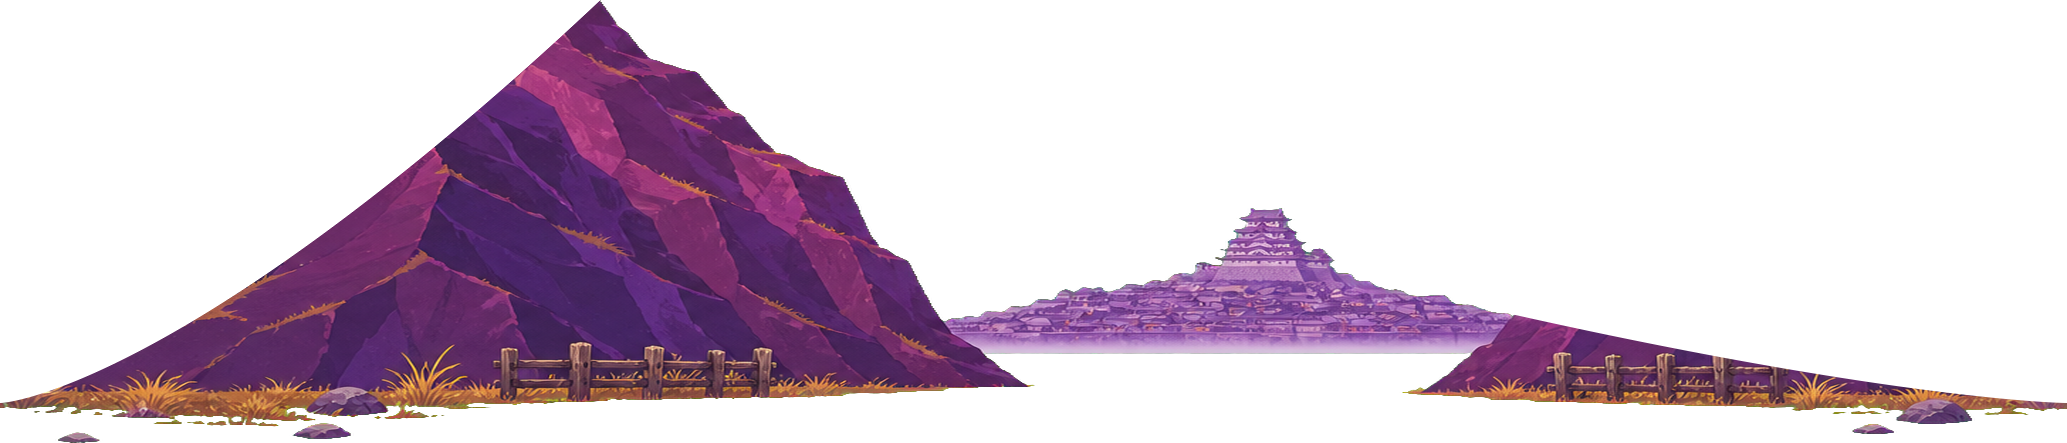
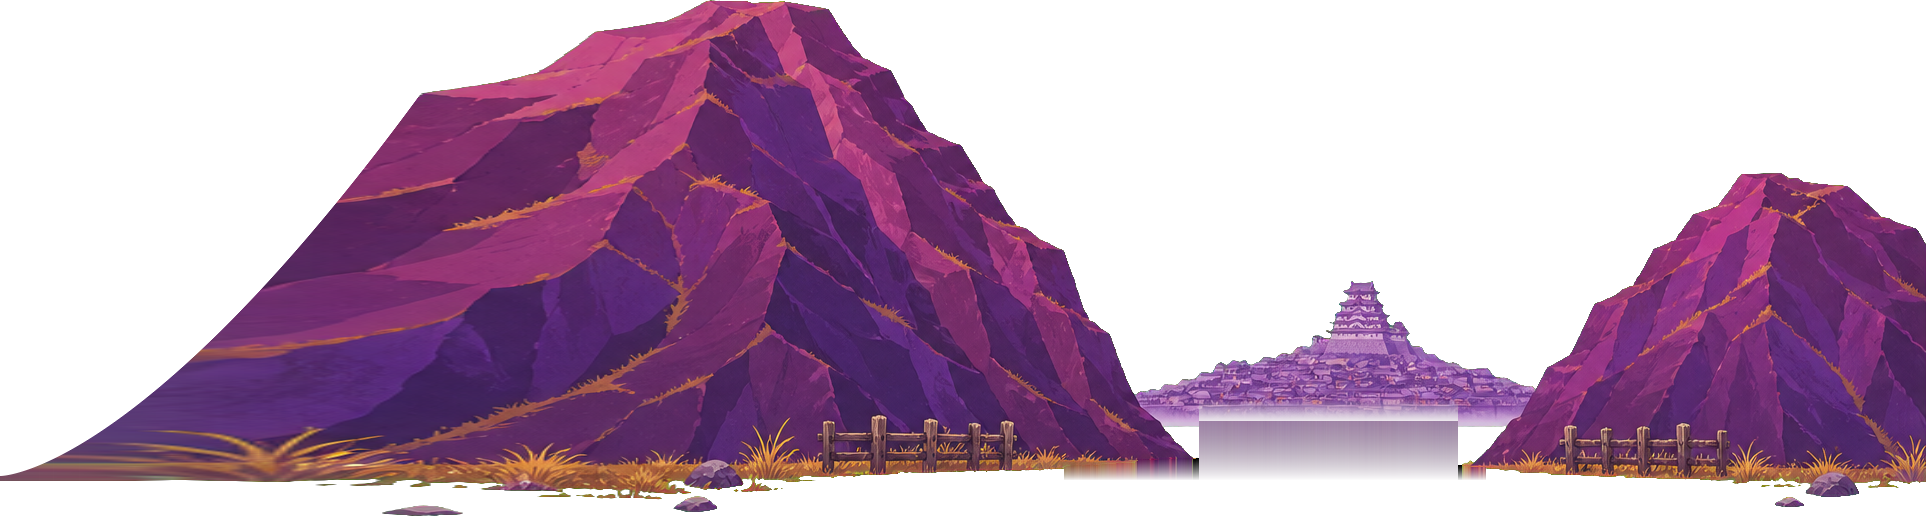
Stage3ラストの絵を作り直す(右の山を削っていた・横に潰していた・城の裾が皿だった)
「雑すぎない？」はそのとおりで、原因は生成物ではなく【私の後処理】だった。
実測して三つとも私が壊していた。

■ 1. 右の山を丸ごと削っていた
裾を作る taper を左右とも幅560で当てていた。右の山の頂は右端から155pxの
位置にあるので、その頂ごと削り取っていた。
  実測(修正前): x=1400から右へ 高さ116→106→93→…→4 と単調減少＝山が無い
右端はカメラ停止時に画面の右端と一致する(exitX+exitW=1280、接近中はさらに外)。
つまり【右の裁ち切りは元から見えない】ので taper は不要だった。右は0にした。
  実測(修正後): x=1500で103 → x=1925で237。山が戻った。

■ 2. 全体を横に1.42倍伸ばして面が潰れていた
左の斜面(63度)を寝かせるために全体を伸ばしていたので、面が横へ流れて
くしゃくしゃの紙のようになっていた。
伸ばすのは【左の裾だけ】にして、しかも継ぎ目が出ないよう非線形にした:
  f(X) = 250*(X/720)^2.88   X=720で傾き1(＝無変形部と滑らかに繋がる)
左端ほど強く伸び、山の本体は無変形のまま。そのうえで左だけ幅420で裾を作る。
  実測: 左斜面 34.1度 / 左端 x=0で高さ4 → x=40で16 → x=120で63 と地面へ消える
伸ばした裾は面が流れるので、外側360pxだけ霞へ寄せて遠景として読ませる。

■ 3. 城下町の裾が明るい横棒だった(皿・水面に見える元)
生成画像が焼き込んでいた靄の帯を溶かし、丘の裾を地平まで落とした。
まっすぐ下へ伸ばすと四角い台になったので、αを落としながら地平で消す。

さらに、その下に敷いていた遠い平地の色が【夕焼けの空色そのまま】だったので、
霞んだ紫の丘の下に真っ赤な帯が出ていた。遠い平地は空ではなく地面なので
霞んだ灰紫にした(near と #6a5a78 の中間)。
  実測 x=860 の縦: 修正前 (89,28,16) の赤 → 修正後 (120,104,118)→(87,63,67)
  で丘から地面へ連続。平地 x=1150,y=470 も (68,38,73)。

配置も合わせ直した(EXIT_TOP_MARGIN 200→146 / 地面線 480/516)。
停止時は 左の山 -109..598(頂403) / 城下町 612..828 / 右の山 937..1280 で画面が埋まる。

?v= は screen-safe-20260815b へ一括バンプ。

diff --git a/js/game.js b/js/game.js
@@ -2,17 +2,17 @@
 // Unification of the Nation - ゲームコア
 // ============================================
 
-import { CANVAS_WIDTH, SCREEN_WIDTH, CANVAS_HEIGHT, GAME_STATE, STAGES, DIFFICULTY, OBSTACLE_TYPES, PLAYER, STAGE_DEFAULT_WEAPON, LANE_OFFSET, STAGE6_CORNER, UI_SIZE_ANCHOR, getDeviceProfile, setUiScaleFromFitScale, setCornerInsets, setNotchInsetX, setVirtualPadVisible, setBgmButtonVisible, isTouchOverlayMode } from './constants.js?v=screen-safe-20260815a';
-import { BOSS_STAGING } from './bossStaging.js?v=screen-safe-20260815a';
-import { isUpdateAvailable, applyUpdate, checkForUpdate } from './appUpdate.js?v=screen-safe-20260815a';
-import { getStageSelectLayout, renderStageSelect, STAGE_SELECT_ORDER } from './stageSelect.js?v=screen-safe-20260815a';
-import { clearFilteredImageCache, getFilteredImageCacheStats } from './filteredImage.js?v=screen-safe-20260815a';
-import { BonusStage, BONUS_STAGE_IMAGES } from './bonusStage.js?v=screen-safe-20260815a';
-import { TrainingStage, TRAINING_STAGE_IMAGES } from './trainingStage.js?v=screen-safe-20260815a';
-import { sideBestKey, normalizeSideBests, getSideBest } from './sideStageCommon.js?v=screen-safe-20260815a';
-import { preloadImages, areImagesSettled } from './imageCache.js?v=screen-safe-20260815a';
-import { readPhysicalScreen, computeScreenWidth } from './screenGeometry.js?v=screen-safe-20260815a';
-import { input } from './input.js?v=screen-safe-20260815a';
+import { CANVAS_WIDTH, SCREEN_WIDTH, CANVAS_HEIGHT, GAME_STATE, STAGES, DIFFICULTY, OBSTACLE_TYPES, PLAYER, STAGE_DEFAULT_WEAPON, LANE_OFFSET, STAGE6_CORNER, UI_SIZE_ANCHOR, getDeviceProfile, setUiScaleFromFitScale, setCornerInsets, setNotchInsetX, setVirtualPadVisible, setBgmButtonVisible, isTouchOverlayMode } from './constants.js?v=screen-safe-20260815b';
+import { BOSS_STAGING } from './bossStaging.js?v=screen-safe-20260815b';
+import { isUpdateAvailable, applyUpdate, checkForUpdate } from './appUpdate.js?v=screen-safe-20260815b';
+import { getStageSelectLayout, renderStageSelect, STAGE_SELECT_ORDER } from './stageSelect.js?v=screen-safe-20260815b';
+import { clearFilteredImageCache, getFilteredImageCacheStats } from './filteredImage.js?v=screen-safe-20260815b';
+import { BonusStage, BONUS_STAGE_IMAGES } from './bonusStage.js?v=screen-safe-20260815b';
+import { TrainingStage, TRAINING_STAGE_IMAGES } from './trainingStage.js?v=screen-safe-20260815b';
+import { sideBestKey, normalizeSideBests, getSideBest } from './sideStageCommon.js?v=screen-safe-20260815b';
+import { preloadImages, areImagesSettled } from './imageCache.js?v=screen-safe-20260815b';
+import { readPhysicalScreen, computeScreenWidth } from './screenGeometry.js?v=screen-safe-20260815b';
+import { input } from './input.js?v=screen-safe-20260815b';
 
 // 最上層の会敵歩行の速度倍率。決戦前の一歩を重くするため通常より遅く歩かせる。
 const STAGE6_APPROACH_SPEED_SCALE = 0.46;   // 会敵歩行の速さ(通常歩行に対する比)
@@ -50,18 +50,18 @@ const STAGE6_DUEL_LEAD_OUT_MS = 1400;   // 開戦後に通常追従へ戻す
 // ボスが足を止めてから名乗りまでの実測483msで残差1.5pxまで収束する。
 const STAGE6_DUEL_LEAD_OMEGA = 12;
 const STAGE6_DUEL_LEAD_MAX_PX = 460;    // 先行量の上限(異常な間合いでカメラが飛ばない保険)
-import { Player } from './player.js?v=screen-safe-20260815a';
-import { createSubWeapon } from './weapon.js?v=screen-safe-20260815a';
-import { Stage, preloadStageImages, prefetchStageImages, areStageImagesSettled } from './stage.js?v=screen-safe-20260815a';
-import { GRAPPLE_PHASE } from './stage6Grapple.js?v=screen-safe-20260815a';
-import { UI, renderTitleScreen, renderTitleDebugWindow, renderGameOverScreen, renderStatusScreen, renderStageClearAnnouncement, renderLevelUpChoiceScreen, getLevelUpChoiceLayout, renderSideResultScreen, getSideResultLayout, renderPauseScreen, getPauseReturnButton, getPauseMapButton, renderGameClearScreen, renderIntro, renderEnding, getTitleScreenLayout, getStatusScreenLayout, getTitleDebugLayout, getUpdateModalLayout, renderBossNameBanner, getBossNameBannerBox } from './ui.js?v=screen-safe-20260815a';
-import { CollisionManager, checkPlayerEnemyCollision, checkEnemyAttackHit } from './collision.js?v=screen-safe-20260815a';
-import { saveManager } from './save.js?v=screen-safe-20260815a';
-import { shop } from './shop.js?v=screen-safe-20260815a';
-import { audio } from './audio.js?v=screen-safe-20260815a';
-import { ShadowRenderer } from './shadow.js?v=screen-safe-20260815a';
-import { applyShogunCombat } from './shogunCombatHelper.js?v=screen-safe-20260815a';
-import { getRockVisualPalette } from './obstacle.js?v=screen-safe-20260815a';
+import { Player } from './player.js?v=screen-safe-20260815b';
+import { createSubWeapon } from './weapon.js?v=screen-safe-20260815b';
+import { Stage, preloadStageImages, prefetchStageImages, areStageImagesSettled } from './stage.js?v=screen-safe-20260815b';
+import { GRAPPLE_PHASE } from './stage6Grapple.js?v=screen-safe-20260815b';
+import { UI, renderTitleScreen, renderTitleDebugWindow, renderGameOverScreen, renderStatusScreen, renderStageClearAnnouncement, renderLevelUpChoiceScreen, getLevelUpChoiceLayout, renderSideResultScreen, getSideResultLayout, renderPauseScreen, getPauseReturnButton, getPauseMapButton, renderGameClearScreen, renderIntro, renderEnding, getTitleScreenLayout, getStatusScreenLayout, getTitleDebugLayout, getUpdateModalLayout, renderBossNameBanner, getBossNameBannerBox } from './ui.js?v=screen-safe-20260815b';
+import { CollisionManager, checkPlayerEnemyCollision, checkEnemyAttackHit } from './collision.js?v=screen-safe-20260815b';
+import { saveManager } from './save.js?v=screen-safe-20260815b';
+import { shop } from './shop.js?v=screen-safe-20260815b';
+import { audio } from './audio.js?v=screen-safe-20260815b';
+import { ShadowRenderer } from './shadow.js?v=screen-safe-20260815b';
+import { applyShogunCombat } from './shogunCombatHelper.js?v=screen-safe-20260815b';
+import { getRockVisualPalette } from './obstacle.js?v=screen-safe-20260815b';
 
 // 端末ディスプレイの角丸推定（updateCornerInsets が使う）。
 // R ≒ 画面短辺 × 11%。退避量はコーナー円の幾何最小 0.293R に円形ボタンぶんの
@@ -1183,7 +1183,7 @@ class Game {
         shop.reset();
 
         // 武器作成関数をインポート
-        import('./weapon.js?v=screen-safe-20260815a').then(module => {
+        import('./weapon.js?v=screen-safe-20260815b').then(module => {
             // 基本ステータス復元
             this.currentStageNumber = saveData.progress.currentStage;
             // セレクト画面の解放判定。旧セーブ(フィールド無し)は「保存された次のステージ

diff --git a/js/stage.js b/js/stage.js
@@ -2,23 +2,23 @@
 // Unification of the Nation - ステージ管理
 // ============================================
 
-import { CANVAS_WIDTH, CANVAS_HEIGHT, SCREEN_WIDTH, STAGES, ENEMY_TYPES, OBSTACLE_TYPES, LANE_OFFSET, STAGE5_FLOOR, STAGE6_CORNER } from './constants.js?v=screen-safe-20260815a';
-import { BOSS_STAGING } from './bossStaging.js?v=screen-safe-20260815a';
-import { createEnemy } from './enemy.js?v=screen-safe-20260815a';
-import { createBoss } from './boss.js?v=screen-safe-20260815a';
-import { createObstacle } from './obstacle.js?v=screen-safe-20260815a';
-import { audio } from './audio.js?v=screen-safe-20260815a';
-import { generateStairsCanvas } from './stairRenderer.js?v=screen-safe-20260815a';
+import { CANVAS_WIDTH, CANVAS_HEIGHT, SCREEN_WIDTH, STAGES, ENEMY_TYPES, OBSTACLE_TYPES, LANE_OFFSET, STAGE5_FLOOR, STAGE6_CORNER } from './constants.js?v=screen-safe-20260815b';
+import { BOSS_STAGING } from './bossStaging.js?v=screen-safe-20260815b';
+import { createEnemy } from './enemy.js?v=screen-safe-20260815b';
+import { createBoss } from './boss.js?v=screen-safe-20260815b';
+import { createObstacle } from './obstacle.js?v=screen-safe-20260815b';
+import { audio } from './audio.js?v=screen-safe-20260815b';
+import { generateStairsCanvas } from './stairRenderer.js?v=screen-safe-20260815b';
 import {
     GRAPPLE_PHASE, createGrappleState, isGrappleActive, grappleProgress,
     startGrapple, updateGrapple, updateGrappleVisual, grapplePullEase, grapplePullPosition,
     renderGrappleBehind, renderGrappleFront
-} from './stage6Grapple.js?v=screen-safe-20260815a';
-import { getImage, preloadImages, prefetchImages, areImagesSettled, shouldSkipPrefetch } from './imageCache.js?v=screen-safe-20260815a';
+} from './stage6Grapple.js?v=screen-safe-20260815b';
+import { getImage, preloadImages, prefetchImages, areImagesSettled, shouldSkipPrefetch } from './imageCache.js?v=screen-safe-20260815b';
 // 画像描画は drawImageGraded を通す。ctx.filter が none のときは素通しで、
 // 掛かっているときだけフィルタ済みキャッシュを貼る(毎フレームの色調フィルタが
 // 低スペック端末での処理落ちの主因だった。詳細は filteredImage.js)。
-import { drawImageGraded } from './filteredImage.js?v=screen-safe-20260815a';
+import { drawImageGraded } from './filteredImage.js?v=screen-safe-20260815b';
 
 /**
  * 背景の添景を床帯のどこに植えるか（groundY からの奥行き）。
@@ -76,7 +76,7 @@ const STAGE_IMAGE_SOURCES = {
     },
     3: {
         fields: {
-            stage3ExitImage: 'images/stage3_mountain_exit.png?v=20260814_exit5',
+            stage3ExitImage: 'images/stage3_mountain_exit.png?v=20260815_exit6',
             stage3GroundImage: 'images/stage3_ground_mountain_tile.png',
             // 遠景の山並み。1枚をミラー連結してあるので横に繰り返すと稜線が繋がる
             // (右端は自身の鏡像と接し、巻き戻り点は左端同士)。
@@ -4782,8 +4782,8 @@ export class Stage {
         // 絵の上辺が y=EXIT_TOP_MARGIN_PX に来る大きさを幅へ逆算する。
         // 遠景の帯(y270あたりが最高峰)より一段だけ高い位置に頂が来る値にしてある。
         // ここを詰めすぎると「同じ山が一段手前に来た」ではなく壁になる。
-        const EXIT_TOP_MARGIN_PX = 200;
-        const EXIT_HORIZON_RATIO = 406 / 443; // 実測: 山の裾が地面に着く行 / 画像の高さ
+        const EXIT_TOP_MARGIN_PX = 146;
+        const EXIT_HORIZON_RATIO = 480 / 516; // 実測: 山の裾が地面に着く行 / 画像の高さ
         const footY = this.groundY + BG_PROP_FOOT_DEPTH;
         const exitH = Math.round((footY - EXIT_TOP_MARGIN_PX) / EXIT_HORIZON_RATIO);
         const exitW = Math.round(exitH * (exitImg.naturalWidth / exitImg.naturalHeight));
@@ -4972,12 +4972,17 @@ export class Stage {
             // 尽きた先が素の空だけになると地平まで抜けて空虚になるので、
             // 先に【遠い平地の霞】を低く敷いておく。山より下にしか出ないので、
             // 山が残っている範囲では山に隠れて見えない。
-            const plainTone = this.interpolateColor(currentPalette.mid, horizonSky, 0.74);
-            const plainTop = this.groundY - 62;
+            // 地平のきわは【ほぼ不透明】にする。薄いままだと、城下町の丘の裾と
+            // 地面の間に空の色が細く残って「丘が浮いた赤い帯」になる。
+            // 色は空へ寄せない。夕焼けの空色をそのまま敷くと真っ赤な帯になり、
+            // 霞んだ紫の丘と繋がらない。遠い平地は【霞んだ灰紫】。
+            const plainTone = this.interpolateColor(currentPalette.near, '#6a5a78', 0.55);
+            const plainTop = this.groundY - 88;
             const plain = ctx.createLinearGradient(0, plainTop, 0, this.groundY);
             plain.addColorStop(0, rgba(plainTone, 0));
-            plain.addColorStop(0.45, rgba(plainTone, 0.5));
-            plain.addColorStop(1, rgba(plainTone, 0.86));
+            plain.addColorStop(0.4, rgba(plainTone, 0.42));
+            plain.addColorStop(0.75, rgba(plainTone, 0.86));
+            plain.addColorStop(1, rgba(plainTone, 0.97));
             ctx.fillStyle = plain;
             ctx.fillRect(0, plainTop, CANVAS_WIDTH, this.groundY - plainTop);
 

diff --git a/js/player.js b/js/player.js
@@ -2,11 +2,11 @@
 // Unification of the Nation - プレイヤークラス
 // ============================================
 
-import { PLAYER, GRAVITY, FRICTION, COLORS, LANE_OFFSET } from './constants.js?v=screen-safe-20260815a';
-import { input } from './input.js?v=screen-safe-20260815a';
+import { PLAYER, GRAVITY, FRICTION, COLORS, LANE_OFFSET } from './constants.js?v=screen-safe-20260815b';
+import { input } from './input.js?v=screen-safe-20260815b';
 console.log('[player.js] Imported input instance:', input ? input.instanceId : 'undefined');
-import { audio } from './audio.js?v=screen-safe-20260815a';
-import { game } from './game.js?v=screen-safe-20260815a';
+import { audio } from './audio.js?v=screen-safe-20260815b';
+import { game } from './game.js?v=screen-safe-20260815b';
 import {
     ANIM_STATE, COMBO_ATTACKS, calcExpToNextForLevel,
     BASE_EXP_TO_NEXT, TEMP_NINJUTSU_MAX_STACK_MS, LEVEL_UP_MAX_HP_GAIN, LEVEL_UP_ATK_GAIN,
@@ -14,17 +14,17 @@ import {
     PLAYER_PONYTAIL_CONNECT_LIFT_Y, PLAYER_PONYTAIL_ROOT_ANGLE_RIGHT,
     PLAYER_PONYTAIL_ROOT_ANGLE_LEFT, PLAYER_PONYTAIL_ROOT_SHIFT_X,
     PLAYER_PONYTAIL_NODE_ROOT_OFFSET_X, PLAYER_PONYTAIL_NODE_ROOT_OFFSET_Y
-} from './playerData.js?v=screen-safe-20260815a';
+} from './playerData.js?v=screen-safe-20260815b';
 import {
     applyNormalComboActiveMotion,
     applyNormalComboStartMotion,
     freezeNormalComboFinisherTrailCurve,
     prepareNormalComboFinisherProfile
-} from './normalComboMotion.js?v=screen-safe-20260815a';
-import { applyRendererMixin }    from './playerRenderer.js?v=screen-safe-20260815a';
-import { applySlashTrailMixin }  from './playerSlashTrail.js?v=screen-safe-20260815a';
-import { applySpecialMixin }     from './playerSpecial.js?v=screen-safe-20260815a';
-import { applyShogunCombat }    from './shogunCombatHelper.js?v=screen-safe-20260815a';
+} from './normalComboMotion.js?v=screen-safe-20260815b';
+import { applyRendererMixin }    from './playerRenderer.js?v=screen-safe-20260815b';
+import { applySlashTrailMixin }  from './playerSlashTrail.js?v=screen-safe-20260815b';
+import { applySpecialMixin }     from './playerSpecial.js?v=screen-safe-20260815b';
+import { applyShogunCombat }    from './shogunCombatHelper.js?v=screen-safe-20260815b';
 import {
     SHOGUN_ACTOR_BASE_HEIGHT,
     SHOGUN_ACTOR_BASE_WIDTH,
@@ -38,7 +38,7 @@ import {
     SHOGUN_CROUCH_STANCE_DUTY,
     NINJA_CROUCH_STRIDE_AMP,
     SHOGUN_CROUCH_STRIDE_AMP
-} from './shogunConstants.js?v=screen-safe-20260815a';
+} from './shogunConstants.js?v=screen-safe-20260815b';
 
 const clamp01 = (v) => Math.max(0, Math.min(1, v));
 

diff --git a/js/ui.js b/js/ui.js
@@ -2,9 +2,9 @@
 // Unification of the Nation - UIクラス
 // ============================================
 
-import { SCREEN_WIDTH, CANVAS_HEIGHT, COLORS, VIRTUAL_PAD, HUD_PANEL_X, getDeviceProfile, getPadLayout, getUiScale, getFontScale, getFitScale, getScreenSafeArea, getUiLeftEdge, getFullHeightSideInset, isTouchOverlayMode, setVirtualPadVisible } from './constants.js?v=screen-safe-20260815a';
+import { SCREEN_WIDTH, CANVAS_HEIGHT, COLORS, VIRTUAL_PAD, HUD_PANEL_X, getDeviceProfile, getPadLayout, getUiScale, getFontScale, getFitScale, getScreenSafeArea, getUiLeftEdge, getFullHeightSideInset, isTouchOverlayMode, setVirtualPadVisible } from './constants.js?v=screen-safe-20260815b';
 
-import { isUpdateAvailable } from './appUpdate.js?v=screen-safe-20260815a';
+import { isUpdateAvailable } from './appUpdate.js?v=screen-safe-20260815b';
 
 // 左上HUDの文字だけ、実寸アンカー(getFontScale)からさらに落とす係数。
 // 実測 16.0css-px は情報量の割に大きいという実機フィードバック(2026-08-09)。
@@ -22,9 +22,9 @@ const UPDATE_MODAL_TITLE = '新しいバージョンがあります';
 const UPDATE_MODAL_BODY = '最新の状態に更新してください';
 const UPDATE_MODAL_BUTTON_TOUCH = 'タップして更新';
 const UPDATE_MODAL_BUTTON_KEY = 'クリックまたはSPACEで更新';
-import { input } from './input.js?v=screen-safe-20260815a';
-import { audio } from './audio.js?v=screen-safe-20260815a';
-import { saveManager } from './save.js?v=screen-safe-20260815a';
+import { input } from './input.js?v=screen-safe-20260815b';
+import { audio } from './audio.js?v=screen-safe-20260815b';
+import { saveManager } from './save.js?v=screen-safe-20260815b';
 
 const CONTROL_MANUAL_TEXT = '←→：移動 | ↓：しゃがみ | ↑・SPACE：ジャンプ | Z：攻撃 | X：忍具 | C：切り替え | S：奥義 | SHIFT：ダッシュ | ESC：ポーズ';
 const TITLE_MANUAL_TEXT = '↑↓：選択 | ←→：難易度 | SPACE：決定';

diff --git a/js/boss.js b/js/boss.js
@@ -2,17 +2,17 @@
 // Unification of the Nation - ボスクラス
 // ============================================
 
-import { CANVAS_WIDTH, LANE_OFFSET, PLAYER, GRAVITY, GAME_STATE } from './constants.js?v=screen-safe-20260815a';
-import { Enemy } from './enemy.js?v=screen-safe-20260815a';
-import { createSubWeapon } from './weapon.js?v=screen-safe-20260815a';
-import { audio } from './audio.js?v=screen-safe-20260815a';
-import { Player } from './player.js?v=screen-safe-20260815a';
+import { CANVAS_WIDTH, LANE_OFFSET, PLAYER, GRAVITY, GAME_STATE } from './constants.js?v=screen-safe-20260815b';
+import { Enemy } from './enemy.js?v=screen-safe-20260815b';
+import { createSubWeapon } from './weapon.js?v=screen-safe-20260815b';
+import { audio } from './audio.js?v=screen-safe-20260815b';
+import { Player } from './player.js?v=screen-safe-20260815b';
 import {
     applyNormalComboActiveMotion,
     applyNormalComboStartMotion,
     freezeNormalComboFinisherTrailCurve,
     prepareNormalComboFinisherProfile
-} from './normalComboMotion.js?v=screen-safe-20260815a';
+} from './normalComboMotion.js?v=screen-safe-20260815b';
 import {
     SHOGUN_ACTOR_BASE_HEIGHT,
     SHOGUN_ACTOR_BASE_WIDTH,
@@ -21,7 +21,7 @@ import {
     SHOGUN_HEAD_SCALE,
     SHOGUN_HIP_LIFT_PX,
     SHOGUN_SCALE
-} from './shogunConstants.js?v=screen-safe-20260815a';
+} from './shogunConstants.js?v=screen-safe-20260815b';
 import {
     BOSS_DESIGNS,
     renderBossActor,
@@ -35,7 +35,7 @@ import {
     kusarigamaStance,
     drawCarriedKusarigama,
     odachiStance
-} from './bossRenderer.js?v=screen-safe-20260815a';
+} from './bossRenderer.js?v=screen-safe-20260815b';
 
 // weaponReplica の攻撃進行度(0..1)。体の所作を実体のタイムラインへ同期させる。
 function replicaProgress(replica) {

diff --git a/js/playerRenderer.js b/js/playerRenderer.js
@@ -1,17 +1,17 @@
 // Unification of the Nation - 描画系 mixin
 
-import { PLAYER, GRAVITY, FRICTION, COLORS, LANE_OFFSET } from './constants.js?v=screen-safe-20260815a';
-import { audio } from './audio.js?v=screen-safe-20260815a';
-import { game } from './game.js?v=screen-safe-20260815a';
+import { PLAYER, GRAVITY, FRICTION, COLORS, LANE_OFFSET } from './constants.js?v=screen-safe-20260815b';
+import { audio } from './audio.js?v=screen-safe-20260815b';
+import { game } from './game.js?v=screen-safe-20260815b';
 import {
     ANIM_STATE, COMBO_ATTACKS, PLAYER_HEADBAND_LINE_WIDTH, PLAYER_SPECIAL_HEADBAND_LINE_WIDTH,
     PLAYER_PONYTAIL_CONNECT_LIFT_Y, PLAYER_PONYTAIL_ROOT_ANGLE_RIGHT,
     PLAYER_PONYTAIL_ROOT_ANGLE_LEFT, PLAYER_PONYTAIL_ROOT_SHIFT_X,
     PLAYER_PONYTAIL_NODE_ROOT_OFFSET_X, PLAYER_PONYTAIL_NODE_ROOT_OFFSET_Y,
     BASE_EXP_TO_NEXT, TEMP_NINJUTSU_MAX_STACK_MS, LEVEL_UP_MAX_HP_GAIN
-} from './playerData.js?v=screen-safe-20260815a';
-import { applyShogunRendererMixin } from './shogunRendererHelper.js?v=screen-safe-20260815a';
-import { drawImageGraded } from './filteredImage.js?v=screen-safe-20260815a';
+} from './playerData.js?v=screen-safe-20260815b';
+import { applyShogunRendererMixin } from './shogunRendererHelper.js?v=screen-safe-20260815b';
+import { drawImageGraded } from './filteredImage.js?v=screen-safe-20260815b';
 import {
     SHOGUN_SCALE,
     SHOGUN_ACTOR_BASE_HEIGHT,
@@ -37,7 +37,7 @@ import {
     NINJA_CROUCH_LIFT_AMP,
     SHOGUN_CROUCH_LIFT_AMP,
     SHOGUN_RUN_STRIDE_CENTER_BIAS
-} from './shogunConstants.js?v=screen-safe-20260815a';
+} from './shogunConstants.js?v=screen-safe-20260815b';
 
 export function applyRendererMixin(PlayerClass) {
     applyShogunRendererMixin(PlayerClass);

diff --git a/js/trainingStage.js b/js/trainingStage.js
@@ -15,10 +15,10 @@
 // 遠近の付いた床を焼き込んだ絵をそのまま敷くと他ステージと奥行きの文法が食い違う。
 // 固定画面なのでパララックス不要。読めない環境ではコード描画にフォールバック。
 
-import { CANVAS_WIDTH, CANVAS_HEIGHT, LANE_OFFSET, ENEMY_TYPES } from './constants.js?v=screen-safe-20260815a';
-import { createEnemy } from './enemy.js?v=screen-safe-20260815a';
-import { getImage } from './imageCache.js?v=screen-safe-20260815a';
-import { pushGain, updateGainPops, renderGainPops, tickTimeLimit, clampToLeftEdge } from './sideStageCommon.js?v=screen-safe-20260815a';
+import { CANVAS_WIDTH, CANVAS_HEIGHT, LANE_OFFSET, ENEMY_TYPES } from './constants.js?v=screen-safe-20260815b';
+import { createEnemy } from './enemy.js?v=screen-safe-20260815b';
+import { getImage } from './imageCache.js?v=screen-safe-20260815b';
+import { pushGain, updateGainPops, renderGainPops, tickTimeLimit, clampToLeftEdge } from './sideStageCommon.js?v=screen-safe-20260815b';
 
 // 開始前に読み込む画像（game.requestStageStart が本編と同じ暗幕待ちに使う）
 export const TRAINING_STAGE_IMAGES = [

diff --git a/js/playerSlashTrail.js b/js/playerSlashTrail.js
@@ -1,17 +1,17 @@
 // Unification of the Nation - 斬撃トレイル mixin
 
-import { PLAYER, GRAVITY, FRICTION, LANE_OFFSET } from './constants.js?v=screen-safe-20260815a';
-import { COMBO_ATTACKS, NORMAL_COMBO_STEP3_LAUNCH_VY, NORMAL_COMBO_STEP3_LUNGE_HSCALE_COEF, SHOGUN_STEP3_MOTION_SCALE } from './playerData.js?v=screen-safe-20260815a';
+import { PLAYER, GRAVITY, FRICTION, LANE_OFFSET } from './constants.js?v=screen-safe-20260815b';
+import { COMBO_ATTACKS, NORMAL_COMBO_STEP3_LAUNCH_VY, NORMAL_COMBO_STEP3_LUNGE_HSCALE_COEF, SHOGUN_STEP3_MOTION_SCALE } from './playerData.js?v=screen-safe-20260815b';
 import {
     SHOGUN_ACTOR_BASE_WIDTH,
     SHOGUN_ACTOR_BASE_HEIGHT,
     SHOGUN_ARM_REACH_SCALE
-} from './shogunConstants.js?v=screen-safe-20260815a';
+} from './shogunConstants.js?v=screen-safe-20260815b';
 import {
     freezeNormalComboFinisherTrailCurve,
     getNormalComboStep4RiseScale,
     getNormalComboStep5DownwardControl
-} from './normalComboMotion.js?v=screen-safe-20260815a';
+} from './normalComboMotion.js?v=screen-safe-20260815b';
 
 const COMBO_STEP5_END_TRIM_FACTOR = 0.9;
 const getComboStep5EndTrimFactor = (physicalScale = 1) => {

diff --git a/js/playerSpecial.js b/js/playerSpecial.js
@@ -1,16 +1,16 @@
 // Unification of the Nation - 分身クローン mixin
 
-import { PLAYER, LANE_OFFSET } from './constants.js?v=screen-safe-20260815a';
-import { audio } from './audio.js?v=screen-safe-20260815a';
-import { createSubWeapon } from './weapon.js?v=screen-safe-20260815a';
-import { ANIM_STATE, COMBO_ATTACKS } from './playerData.js?v=screen-safe-20260815a';
+import { PLAYER, LANE_OFFSET } from './constants.js?v=screen-safe-20260815b';
+import { audio } from './audio.js?v=screen-safe-20260815b';
+import { createSubWeapon } from './weapon.js?v=screen-safe-20260815b';
+import { ANIM_STATE, COMBO_ATTACKS } from './playerData.js?v=screen-safe-20260815b';
 import {
     SHOGUN_ACTOR_BASE_WIDTH,
     SHOGUN_ACTOR_BASE_HEIGHT,
     SHOGUN_SCALE,
     SHOGUN_SPECIAL_CLONE_SPACING_SCALE
-} from './shogunConstants.js?v=screen-safe-20260815a';
-import { getNormalComboStep4RiseScale } from './normalComboMotion.js?v=screen-safe-20260815a';
+} from './shogunConstants.js?v=screen-safe-20260815b';
+import { getNormalComboStep4RiseScale } from './normalComboMotion.js?v=screen-safe-20260815b';
 
 export function applySpecialMixin(PlayerClass) {
 

diff --git a/js/bonusStage.js b/js/bonusStage.js
@@ -20,11 +20,11 @@
 // 画像: images/bonus_kura_*.png（Codex/gpt-image 生成。読めない環境では
 // コード描画にフォールバック）。
 
-import { CANVAS_WIDTH, CANVAS_HEIGHT, LANE_OFFSET } from './constants.js?v=screen-safe-20260815a';
-import { audio } from './audio.js?v=screen-safe-20260815a';
-import { getImage } from './imageCache.js?v=screen-safe-20260815a';
-import { drawKobanImage } from './ui.js?v=screen-safe-20260815a';
-import { pushGain, updateGainPops, renderGainPops, tickTimeLimit, clampToLeftEdge } from './sideStageCommon.js?v=screen-safe-20260815a';
+import { CANVAS_WIDTH, CANVAS_HEIGHT, LANE_OFFSET } from './constants.js?v=screen-safe-20260815b';
+import { audio } from './audio.js?v=screen-safe-20260815b';
+import { getImage } from './imageCache.js?v=screen-safe-20260815b';
+import { drawKobanImage } from './ui.js?v=screen-safe-20260815b';
+import { pushGain, updateGainPops, renderGainPops, tickTimeLimit, clampToLeftEdge } from './sideStageCommon.js?v=screen-safe-20260815b';
 
 // 小判1枚の価値（両）。よろず屋の相場に合わせてここだけで調整する。
 const KOBAN_VALUE = 10;

diff --git a/js/weapon.js b/js/weapon.js
@@ -2,10 +2,10 @@
 // Unification of the Nation - 武器クラス
 // ============================================
 
-import { GRAVITY, CANVAS_WIDTH, LANE_OFFSET, PLAYER } from './constants.js?v=screen-safe-20260815a';
-import { audio } from './audio.js?v=screen-safe-20260815a';
-import { SHOGUN_SCALE } from './shogunConstants.js?v=screen-safe-20260815a';
-import { withDropShadow, drawSparks, drawBlastFlash, makeParticles, smoothstep01, pushTrailPoint, drawCometRibbon } from './weaponFx.js?v=screen-safe-20260815a';
+import { GRAVITY, CANVAS_WIDTH, LANE_OFFSET, PLAYER } from './constants.js?v=screen-safe-20260815b';
+import { audio } from './audio.js?v=screen-safe-20260815b';
+import { SHOGUN_SCALE } from './shogunConstants.js?v=screen-safe-20260815b';
+import { withDropShadow, drawSparks, drawBlastFlash, makeParticles, smoothstep01, pushTrailPoint, drawCometRibbon } from './weaponFx.js?v=screen-safe-20260815b';
 
 // 武器ジオメトリは「武器を振る主体(owner/player)のワールド寸法」を基準に組み立てる。
 // 将軍は width/height が素体(40x60)なので getWorldWidth/Height(=素体×SHOGUN_SCALE) を読む。

diff --git a/js/stageSelect.js b/js/stageSelect.js
@@ -9,9 +9,9 @@
 // ノード座標は「画像内の比率(u,v)」で持ち、cover 変換で画面座標へ写す。
 // 画像を差し替えても u,v を微調整するだけで済む（map_generation_prompt.md 参照）。
 
-import { SCREEN_WIDTH, CANVAS_HEIGHT, STAGES, getUiScale, getFontScale, getScreenSafeArea, isTouchOverlayMode } from './constants.js?v=screen-safe-20260815a';
-import { fillTextInkCentered, drawScreenManualLine, formatCount } from './ui.js?v=screen-safe-20260815a';
-import { getSideBest } from './sideStageCommon.js?v=screen-safe-20260815a';
+import { SCREEN_WIDTH, CANVAS_HEIGHT, STAGES, getUiScale, getFontScale, getScreenSafeArea, isTouchOverlayMode } from './constants.js?v=screen-safe-20260815b';
+import { fillTextInkCentered, drawScreenManualLine, formatCount } from './ui.js?v=screen-safe-20260815b';
+import { getSideBest } from './sideStageCommon.js?v=screen-safe-20260815b';
 
 // ノード定義。kind: main=本編 / bonus=小判蔵(第2階層踏破で解放) /
 // training=修行道場(第3階層踏破で解放)。どちらも実装済み。
